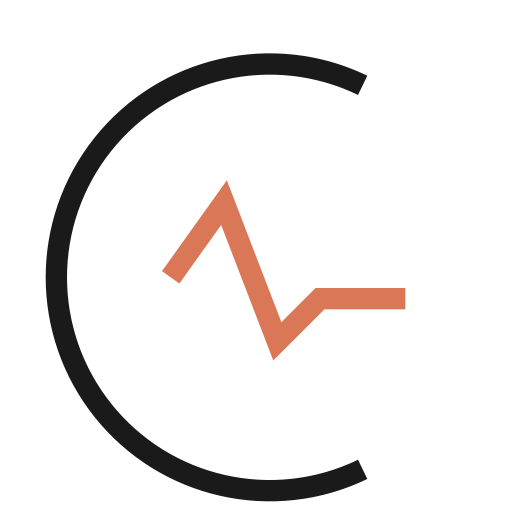
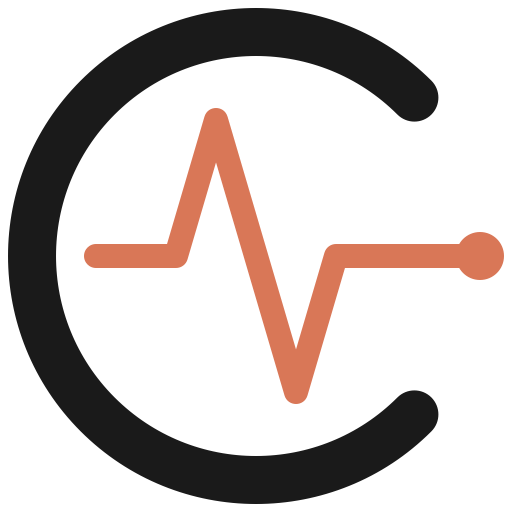
chore: update docs for camera fix; refresh extension assets and UI

Changed region(s): [[0.0, 0.0, 1.0, 1.0]]

diff --git a/cortex/apps/browser_extension/newtab.tsx b/cortex/apps/browser_extension/newtab.tsx
@@ -356,9 +356,10 @@ function PulseRoom(): React.ReactElement {
                             transition: "transform 0.05s linear",
                         }}
                     >
-                        <svg width="100" height="100" viewBox="0 0 24 24" fill="none" xmlns="http://www.w3.org/2000/svg">
-                            <path d="M 17 4 A 10 10 0 1 0 17 22" stroke="#1a1a1a" strokeWidth="2.5" strokeLinecap="round" />
-                            <path d="M8 13l2.5-3.5L13 16l2-2h4" stroke="currentColor" strokeWidth="1.5" strokeLinecap="round" strokeLinejoin="round" />
+                        <svg width="100" height="100" viewBox="0 0 64 64" fill="none" xmlns="http://www.w3.org/2000/svg">
+                            <path d="M 51.8 12.2 A 28 28 0 1 0 51.8 51.8" fill="none" stroke="#1a1a1a" strokeWidth="6" strokeLinecap="round" />
+                            <path d="M 12 32 L 22 32 L 27 15 L 37 49 L 42 32 L 60 32" fill="none" stroke="currentColor" strokeWidth="3" strokeLinecap="round" strokeLinejoin="round" />
+                            <circle cx="60" cy="32" r="3" fill="currentColor" />
                         </svg>
                     </div>
                 </div>

diff --git a/cortex/apps/browser_extension/popup.tsx b/cortex/apps/browser_extension/popup.tsx
@@ -11,9 +11,10 @@ import { createRoot } from "react-dom/client";
 import { CX, STATE_COLORS, STATE_LABELS, CX_KEYFRAMES } from "./design-tokens";
 
 const CortexLogo = () => (
-    <svg width="22" height="22" viewBox="0 0 24 24" fill="none" xmlns="http://www.w3.org/2000/svg" style={{ flexShrink: 0 }}>
-        <path d="M 17 4 A 10 10 0 1 0 17 22" stroke="#1a1a1a" strokeWidth="2.5" strokeLinecap="round" />
-        <path d="M8 13l2.5-3.5L13 16l2-2h4" stroke="#D97757" strokeWidth="2" strokeLinecap="round" strokeLinejoin="round" />
+    <svg width="22" height="22" viewBox="0 0 64 64" fill="none" xmlns="http://www.w3.org/2000/svg" style={{ flexShrink: 0 }}>
+        <path d="M 51.8 12.2 A 28 28 0 1 0 51.8 51.8" fill="none" stroke="#1a1a1a" strokeWidth="6" strokeLinecap="round" />
+        <path d="M 12 32 L 22 32 L 27 15 L 37 49 L 42 32 L 60 32" fill="none" stroke="#D97757" strokeWidth="3" strokeLinecap="round" strokeLinejoin="round" />
+        <circle cx="60" cy="32" r="3" fill="#D97757" />
     </svg>
 );
 

diff --git a/cortex/docs/setup.md b/cortex/docs/setup.md
@@ -80,7 +80,10 @@ Leave `CORTEX_CAPTURE__DEVICE_ID` commented out (the default) for automatic came
 - Enumerate cameras via AVFoundation
 - Skip iPhone/iPad Continuity Camera devices
 - Prefer the MacBook's built-in camera
-- Probe indices 0–4 as fallback
+- Probe only non-Continuity indices as fallback (never probes iPhone/iPad indices)
+- Reject any camera it cannot verify by name (prevents accidentally opening a Continuity Camera that disappeared from AVFoundation mid-enumeration)
+
+Camera selection runs once at daemon startup. If you turn off your iPhone after the daemon is already running, restart the daemon to re-run selection.
 
 Only set it manually if auto-detection picks the wrong camera:
 ```bash
@@ -231,8 +234,9 @@ pytest -m "not requires_webcam and not requires_gpu"
 3. Chrome/Edge only reads native messaging manifests at startup
 
 ### Camera opens iPhone instead of MacBook camera
-- Cortex auto-skips Continuity Camera (iPhone/iPad). If it still picks wrong: set `CORTEX_CAPTURE__DEVICE_ID=0` in `.env`
-- Lock your iPhone or move it away to remove it from the device list
+- Cortex auto-skips Continuity Camera (iPhone/iPad) and rejects any camera it cannot verify by name
+- **Restart the daemon** after turning off or disconnecting your iPhone — camera selection only runs at startup
+- If it still picks wrong: set `CORTEX_CAPTURE__DEVICE_ID=0` in `.env` (or `1`, `2`, etc.) to hardcode the index
 
 ### Camera permission denied
 - If launched from browser: grant camera to **Terminal.app** in `System Settings → Privacy & Security → Camera`

diff --git a/README.md b/README.md
@@ -219,8 +219,9 @@ Cortex is not a study planner, a to-do app, or a replacement for actually unders
 - Native messaging manifests are only loaded at browser startup — reloading the extension is not enough
 
 ### Camera opens iPhone instead of MacBook camera
-- Cortex auto-skips Continuity Camera devices (iPhone/iPad). If it still picks the wrong one, set `CORTEX_CAPTURE__DEVICE_ID=0` in `.env` (or try `1`, `2`, etc.)
-- Moving your iPhone away or locking it removes the Continuity Camera from the device list
+- Cortex auto-skips Continuity Camera devices (iPhone/iPad) and rejects any camera it cannot verify by name
+- **Restart the daemon** after turning off your iPhone — camera selection only runs at daemon startup
+- If it still picks wrong: set `CORTEX_CAPTURE__DEVICE_ID=0` in `.env` (or try `1`, `2`, etc.)
 
 ### Camera permission denied
 - If the daemon was launched from the browser extension, it runs via Terminal.app. Grant camera access to **Terminal.app** (not Chrome) in: `System Settings → Privacy & Security → Camera`
